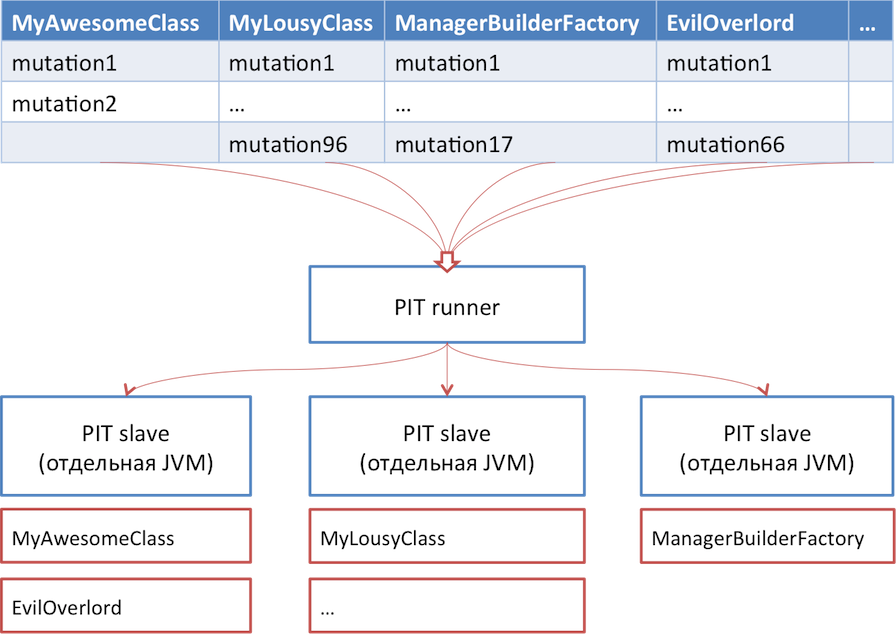
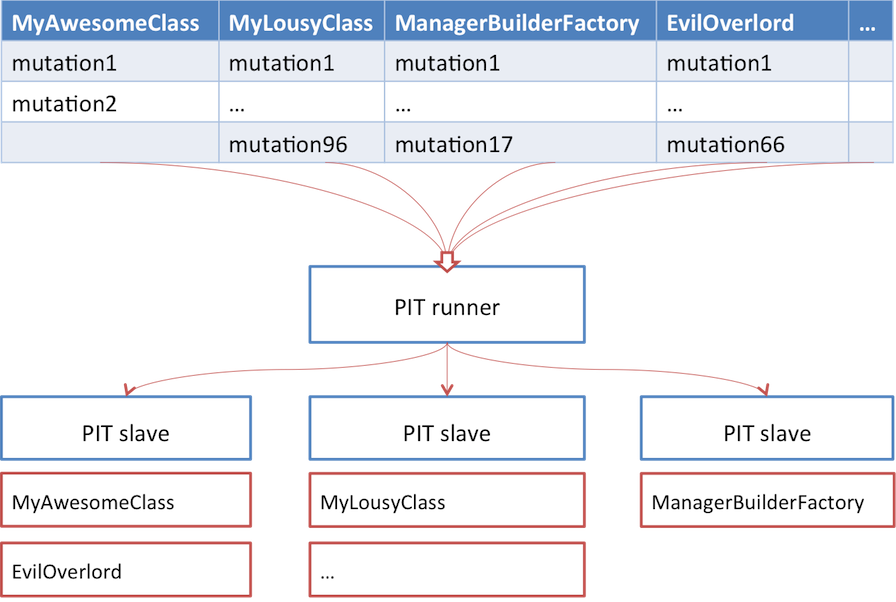
Translated most of the picures in mutation analysis talk

Changed region(s): [[0.0, 0.0299, 1.0, 1.0], [0.3438, 0.9568, 0.6562, 1.0]]

diff --git a/presentations/java-mutation-testing/index.html b/presentations/java-mutation-testing/index.html
@@ -109,6 +109,10 @@ public class NodeMapper {
             </div>
 
             <div class="step" data-x="3000" data-y="3200">
+                <center><h1>(except that it's not cool at all)</h1></center>
+            </div>
+
+            <div class="step spoiler" data-x="3000" data-y="3200">
                 <center><img src="img/zoidberg.jpg"/></center>
             </div>
 
@@ -829,7 +833,6 @@ switch(a) {
 
             <div class="step" data-x="6000" data-y="3200">
                 <h2>Unit of work is a source class</h2>
-                <h2 class="fail">Translate this!</h2>
                 <center><img src="img/balancing.png"/></center>
             </div>
 
@@ -840,24 +843,24 @@ switch(a) {
             -->
 
             <div class="step" data-x="9000" style="text-align: center;">
-                <h2>The three laws of TDD</h2>
+                <h2>The three rules of TDD</h2>
 		    <img data-jmpress="fade" src="img/fight-club.jpg" />
             </div>
 
 	    <div class="step" data-x="10100" style="text-align: center;">
-                 <h2>The first law of TDD is</h2>
+                 <h2>The first rule of TDD is</h2>
 		 <p class="cool-quote">You do not write any production code<br/>
              Unless it is to make a failing unit test pass</p>
 	    </div>
 
 	    <div class="step" data-x="11200" style="text-align: center;">
-                 <h2>The second law of TDD is</h2>
+                 <h2>The second rule of TDD is</h2>
 		 <p class="cool-quote">You do not write any more of a unit test than is sufficient to fail<br/>
              <span class="remark">And compilation failures are failures</span></p>
 	    </div>
 
 	    <div class="step" data-x="12300" style="text-align: center;">
-                 <h2>The third law of TDD is</h2>
+                 <h2>The third rule of TDD is</h2>
 		 <p class="cool-quote">You do not write any production code<br/>
              More than is sufficient to pass the one failing unit test</p>
 	    </div>
@@ -994,17 +997,17 @@ Tests run: 4901, Failures: 0, Errors: 0, Skipped: 43
             </div>
 
             <div class="step graph" data-x="7500" data-y="4000" data-rotate-y="90" data-z="-3000">
-                <h2>CPU load over time <span class="fail">TODO: translate</span></h2>
+                <h2>CPU load over time</h2>
                 <img src="img/core-load-explained.png"/>
             </div>
 
             <div class="step graph" data-x="7500" data-y="4000" data-rotate-y="90" data-z="-4500">
-                <h2>Improved in pitest 0.30<span class="fail">TODO: translate</span></h2>
+                <h2>Improved in pitest 0.30</h2>
                 <img src="img/core-load-improved.png"/>
             </div>
 
             <div class="step graph" data-x="7500" data-y="4000" data-rotate-y="90" data-z="-6000">
-                <h2>Improved further in pitest 0.31<span class="fail">TODO: translate</span></h2>
+                <h2>Improved further in pitest 0.31</h2>
                 <img src="img/core-load-improved-more.png"/>
             </div>
 
@@ -1124,7 +1127,7 @@ createFieldIdentityMatrix(final Field&lt;T&gt; field, final int dimension) {
                 <ul>
                     <li data-jmpress="fade">68K lines of code</li>
                     <li data-jmpress="fade">70K lines of test code</li>
-                    <li data-jmpress="fade"><h2>Mutation analysis is done in under 7 minutes</h2></li>
+                    <li data-jmpress="fade" style="list-style: none;"><h2>Mutation analysis is done in under 7 minutes</h2></li>
                 </ul>
             </div>
 
